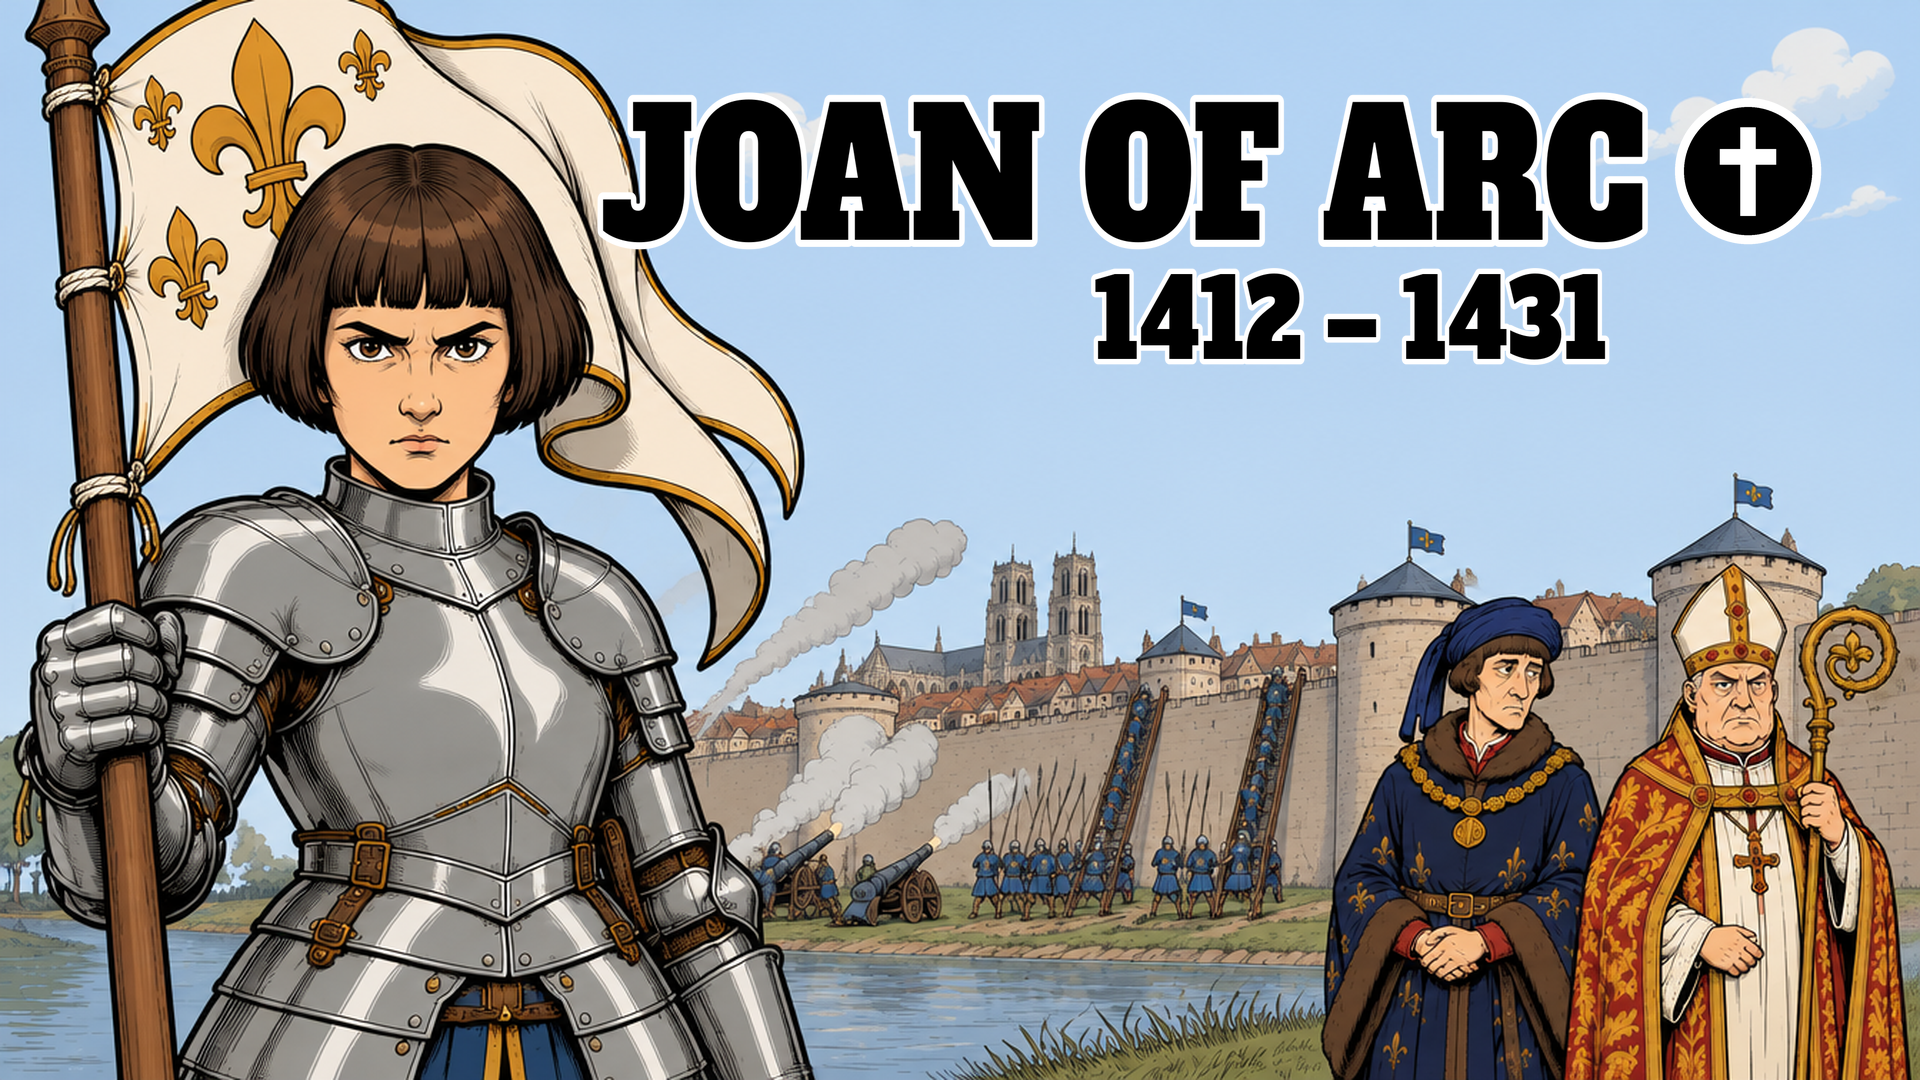
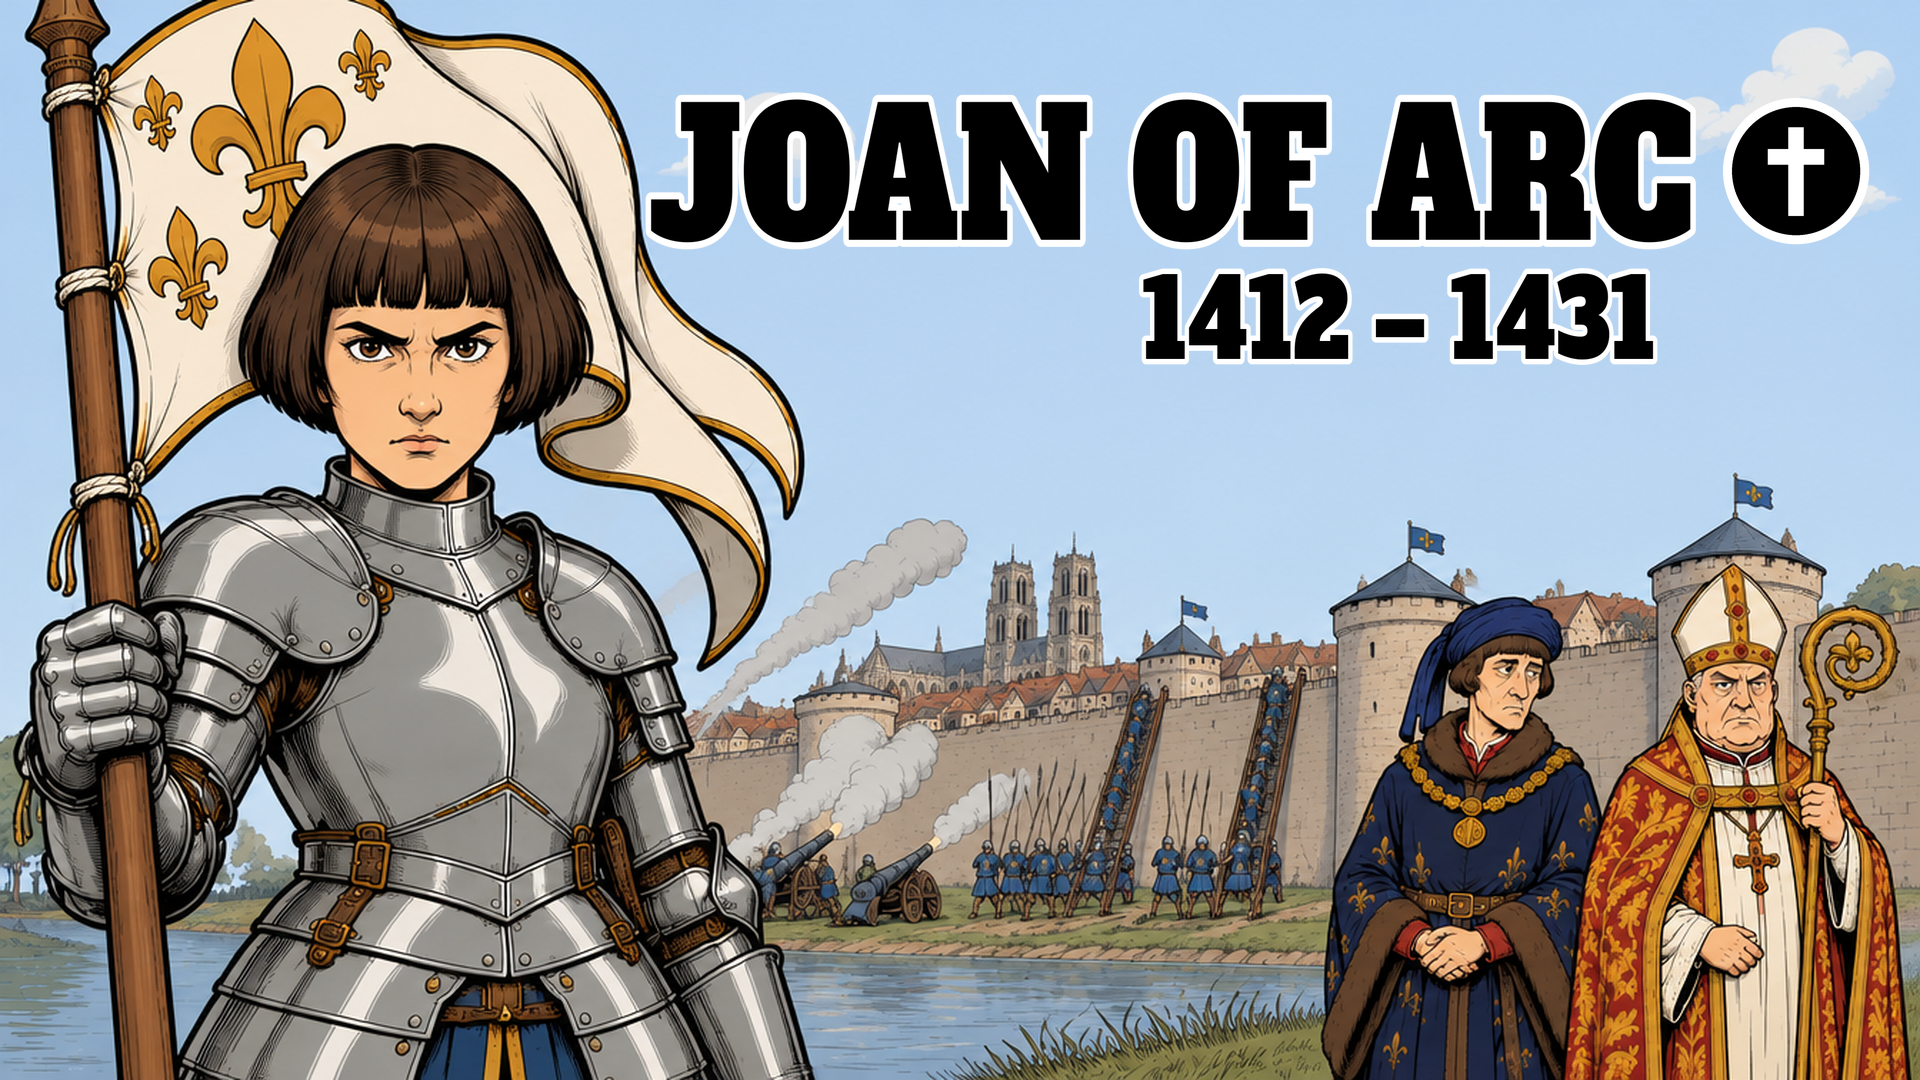
Joan of Arc thumbnail: title moved right
Claude-Session: https://claude.ai/code/session_01TNc2K3rtukezXrYScECeSq

Changed region(s): [[0.3125, 0.0611, 1.0, 0.3361]]

diff --git a/history/joan/thumbs/make_thumb.py b/history/joan/thumbs/make_thumb.py
@@ -16,7 +16,7 @@ T = layer("JOAN OF ARC", 300, 12, .78)
 T = T.resize((int(W * .55), int(T.height * W * .55 / T.width)), Image.LANCZOS)
 Y = layer("1412 – 1431", 200, 10, .80)
 Y = Y.resize((int(Y.width * T.height * .62 / Y.height), int(T.height * .62)), Image.LANCZOS)
-x1 = int(W * .86); ty = int(H * .085)
+x1 = int(W * .885); ty = int(H * .085)
 im.paste(T, (x1 - T.width, ty), T)
 im.paste(Y, (x1 - Y.width - int(W * .02), ty + T.height + int(H * .015)), Y)
 r = int(T.height * .40); cx = x1 + int(W * .012) + r + 10; cy = ty + T.height // 2
